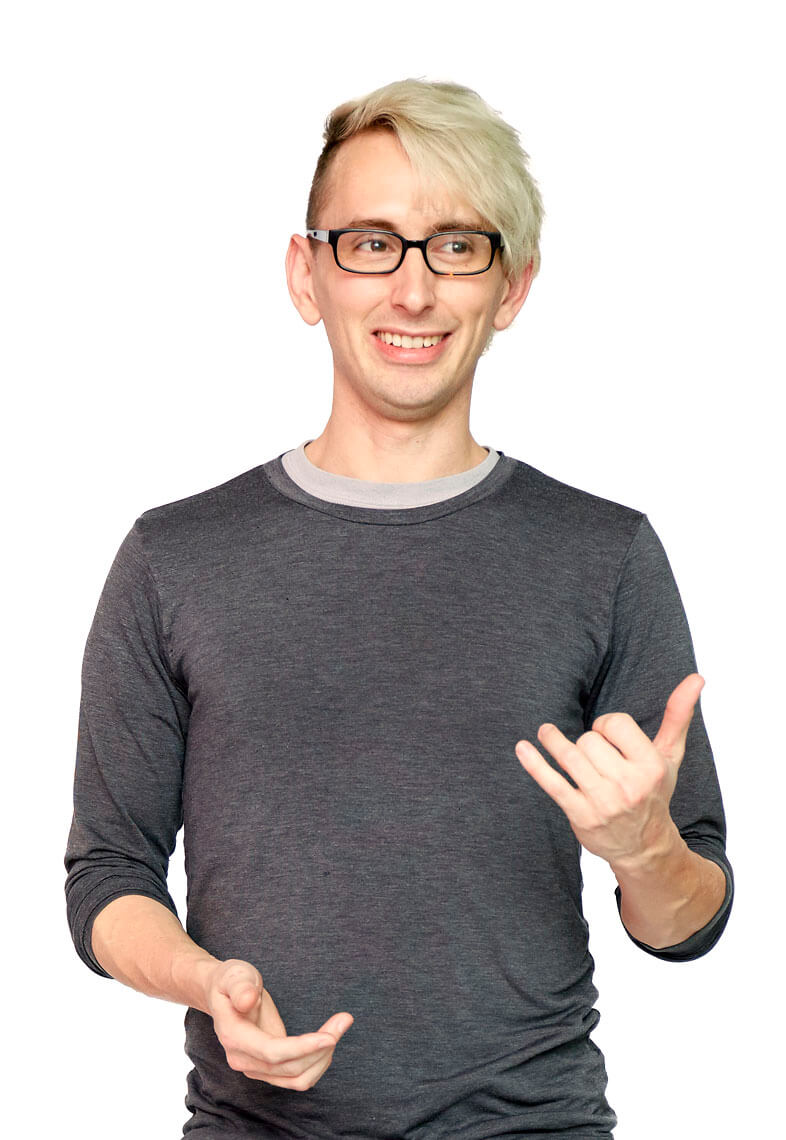
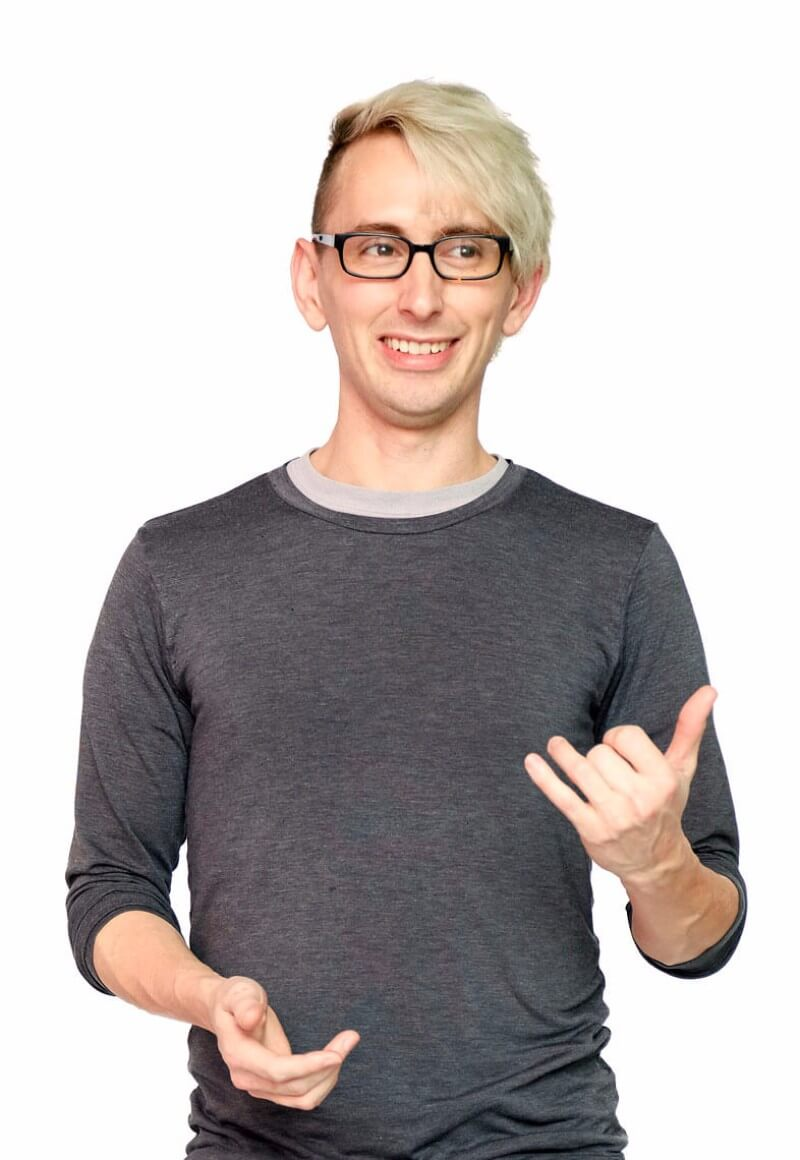
about page image optimization

diff --git a/src/data/teamInfo.js b/src/data/teamInfo.js
@@ -3,7 +3,7 @@ export const teamInfo = [
     id: 'david',
     name: 'David Westen',
     position: 'Principal & Founder',
-    photo: require('assets/img/about/team/david.jpg'),
+    // photo: require('assets/img/about/team/david.jpg'),
     modalImage: require('assets/img/about/team/modal/david.jpg'),
     bioStatement: [
       'David is an expert in internet technology, user experience and digital business strategy.',
@@ -15,7 +15,7 @@ export const teamInfo = [
     id: 'steffan',
     name: 'Steffan Schlarb',
     position: 'Creative Director',
-    photo: require('assets/img/about/team/steffan.jpg'),
+    // photo: require('assets/img/about/team/steffan.jpg'),
     modalImage: require('assets/img/about/team/modal/steffan.jpg'),
     bioStatement: [
       'Steffan is an award-winning creative director with extensive innovation, creative strategy and product design experience.',
@@ -28,7 +28,7 @@ export const teamInfo = [
     id: 'stewart',
     name: 'Stewart Maclennan',
     position: 'Director of Digital Media',
-    photo: require('assets/img/about/team/stewart.jpg'),
+    // photo: require('assets/img/about/team/stewart.jpg'),
     modalImage: require('assets/img/about/team/modal/stewart.jpg'),
     bioStatement: [
       'Stewart Maclennan is a new media guru who combines 12 years of web consulting experience with 9 years as a film writer, director and producer.',
@@ -40,7 +40,7 @@ export const teamInfo = [
     id: 'scott',
     name: 'Scott Lambridis',
     position: 'Lead UX Director',
-    photo: require('assets/img/about/team/scott.jpg'),
+    // photo: require('assets/img/about/team/scott.jpg'),
     modalImage: require('assets/img/about/team/modal/scott.jpg'),
     bioStatement: [
       'Scott Lambridis is the director of UX at Redshift.',
@@ -58,7 +58,7 @@ export const teamInfo = [
     id: 'lucy',
     name: 'Lucy Dotson',
     position: 'Senior UX Designer',
-    photo: require('assets/img/about/team/lucy.jpg'),
+    // photo: require('assets/img/about/team/lucy.jpg'),
     modalImage: require('assets/img/about/team/modal/lucy.jpg'),
     bioStatement: [
       'Lucy Dotson is a senior user experience designer at Redshift.',
@@ -70,7 +70,7 @@ export const teamInfo = [
     id: 'kyle',
     name: 'Kyle Lloyd',
     position: 'Director of Business Development',
-    photo: require('assets/img/about/team/kyle.jpg'),
+    // photo: require('assets/img/about/team/kyle.jpg'),
     modalImage: require('assets/img/about/team/modal/kyle.jpg'),
     bioStatement: [
       'Kyle grew up in Austin, TX and went to school at Texas State University in San Marcos where he earned a BBA in Marketing. He prides himself in building successful sales organizations from the ground up, and prior to Redshift, Kyle worked for pharmaceutical companies, technology accelerators, and other world-renowned digital design firms.',
@@ -81,7 +81,7 @@ export const teamInfo = [
     id: 'shannon',
     name: 'Shannon Chin',
     position: 'Senior Interactive Producer',
-    photo: require('assets/img/about/team/shannon.jpg'),
+    // photo: require('assets/img/about/team/shannon.jpg'),
     modalImage: require('assets/img/about/team/modal/shannon.jpg'),
     bioStatement: [
       'Shannon Chin is an interactive producer at Redshift.',
@@ -93,7 +93,7 @@ export const teamInfo = [
     id: 'ian',
     name: 'Ian Eck',
     position: 'UX Designer',
-    photo: require('assets/img/about/team/ian.jpg'),
+    // photo: require('assets/img/about/team/ian.jpg'),
     modalImage: require('assets/img/about/team/modal/ian.jpg'),
     bioStatement: [
       'Ian is a user experience designer at Redshift.',
@@ -105,7 +105,7 @@ export const teamInfo = [
     id: 'andrew',
     name: 'Andrew Fitzpatrick',
     position: 'Software Engineer',
-    photo: require('assets/img/about/team/andrew.jpg'),
+    // photo: require('assets/img/about/team/andrew.jpg'),
     modalImage: require('assets/img/about/team/modal/andrew.jpg'),
     bioStatement: [
       'Andrew is a self-taught developer with a background in fine arts.',
@@ -125,23 +125,23 @@ export const teamInfo = [
   //     'Jennie received her B.A. in English Literature from Bryn Mawr College.'
   //   ]
   // },
-  {
-    id: 'nick',
-    name: 'Nick Capello',
-    position: 'Studio Manager',
-    photo: require('assets/img/about/team/nick.jpg'),
-    modalImage: require('assets/img/about/team/modal/nick.jpg'),
-    bioStatement: [
-      'Nick Capello is the studio manager at Redshift.',
-      'Born in Kalamazoo, Michigan (a place he left after 4 months) he has moved 13 different times and lived in more than 5 countries with his roots in Buenos Aires, Argentina. He studied Web/UX Design at the Academy of Art, and has worked on a number of freelance jobs ranging from print design to branding. He thrives on keeping Redshift a place that is not only fun and exciting, but also a creative petri dish.',
-      'His interests include getting up at 4 am on weekends to watch English soccer, making music for aliens, and climbing Redwood trails with his puggle, Duckie (aka the Duckman).'
-    ]
-  },
+  // {
+  //   id: 'nick',
+  //   name: 'Nick Capello',
+  //   position: 'Studio Manager',
+  //   // photo: require('assets/img/about/team/nick.jpg'),
+  //   modalImage: require('assets/img/about/team/modal/nick.jpg'),
+  //   bioStatement: [
+  //     'Nick Capello is the studio manager at Redshift.',
+  //     'Born in Kalamazoo, Michigan (a place he left after 4 months) he has moved 13 different times and lived in more than 5 countries with his roots in Buenos Aires, Argentina. He studied Web/UX Design at the Academy of Art, and has worked on a number of freelance jobs ranging from print design to branding. He thrives on keeping Redshift a place that is not only fun and exciting, but also a creative petri dish.',
+  //     'His interests include getting up at 4 am on weekends to watch English soccer, making music for aliens, and climbing Redwood trails with his puggle, Duckie (aka the Duckman).'
+  //   ]
+  // },
   {
     id: 'sasha',
     name: 'Sasha Klein',
     position: 'Senior Software Engineer',
-    photo: require('assets/img/about/team/sasha.jpg'),
+    // photo: require('assets/img/about/team/sasha.jpg'),
     modalImage: require('assets/img/about/team/modal/sasha.jpg'),
     bioStatement: [
       'Sasha Klein is a senior web developer at Redshift.',
@@ -153,7 +153,7 @@ export const teamInfo = [
     id: 'emma',
     name: 'Emma Hazlett',
     position: 'Visual Designer',
-    photo: require('assets/img/about/team/emma.jpg'),
+    // photo: require('assets/img/about/team/emma.jpg'),
     modalImage: require('assets/img/about/team/modal/emma.jpg'),
     bioStatement: [
       'Emma Hazlett is a visual designer at Redshift.',
@@ -177,7 +177,7 @@ export const teamInfo = [
     id: 'sandra',
     name: 'Sandra Wing',
     position: 'UX Researcher',
-    photo: require('assets/img/about/team/sandra.jpg'),
+    // photo: require('assets/img/about/team/sandra.jpg'),
     modalImage: require('assets/img/about/team/modal/sandra.jpg'),
     bioStatement: [
       'Sandra Wing is a User Experience Researcher at Redshift.',
@@ -206,7 +206,7 @@ export const teamInfo = [
     id: 'trevor',
     name: 'Trevor Alexander',
     position: 'Software Engineer',
-    photo: require('assets/img/about/team/trevor.jpg'),
+    // photo: require('assets/img/about/team/trevor.jpg'),
     modalImage: require('assets/img/about/team/modal/trevor.jpg'),
     bioStatement: [
       'Trevor Alexander is a software engineer and data analyst at Redshift. Raised in Arizona, he received his B.S. in Electrical Engineering from the University of Hawai`i at Manoa, with a focus in systems engineering and a minor in Japanese. Following that, he received an M.S. in Electrical Engineering from the same, with a thesis in the area of brain-computer interfaces. Prior to working at Redshift, he worked for a number of technical startups, developing a passion for application development and high-performance web engineering.',
@@ -217,7 +217,7 @@ export const teamInfo = [
     id: 'diana',
     name: 'Diana Cheng',
     position: 'Director of User Research',
-    photo: require('assets/img/about/team/diana.jpg'),
+    // photo: require('assets/img/about/team/diana.jpg'),
     modalImage: require('assets/img/about/team/modal/diana.jpg'),
     bioStatement: [
       'Diana Cheng is the Director of User Research at Redshift.',
@@ -229,7 +229,7 @@ export const teamInfo = [
     id: 'mattk',
     name: 'Matt Kissick',
     position: 'UX Designer',
-    photo: require('assets/img/about/team/mattk.jpg'),
+    // photo: require('assets/img/about/team/mattk.jpg'),
     modalImage: require('assets/img/about/team/modal/mattk.jpg'),
     bioStatement: [
       'Matt Kissick is a user experience designer at Redshift.',
@@ -241,13 +241,13 @@ export const teamInfo = [
     id: 'mattr',
     name: 'Matt Rancatore',
     position: 'Visual Designer',
-    photo: require('assets/img/about/team/mattr.jpg'),
+    // photo: require('assets/img/about/team/mattr.jpg'),
     modalImage: require('assets/img/about/team/modal/mattr.jpg'),
     bioStatement: [
       'Matt Rancatore is a visual designer at Redshift.',
       'He grew up in the Bay Area and received a BS in Graphic Design from The Art Institute of California – San Francisco. Prior to working at Redshift, Matt designed magazines, brands, and websites at companies including Wired Magazine, Sidecar Agency, and IDEO. When Matt isn\'t hunched over his computer pushing pixels, he can be found biking up San Francisco\'s notorious hills, in a park napping, or at a baseball game.'
     ]
-  },
+  }
   // {
   //   id: 'peter',
   //   name: 'Peter Odum',
@@ -260,16 +260,16 @@ export const teamInfo = [
   //     'Peter is a classically trained painter and printmaker who enjoys travel, photography, and roughhousing with his kids, Sam and Irene.'
   //   ]
   // },
-  {
-    id: 'tiffany',
-    name: 'Tiffany La',
-    position: 'User Research',
-    photo: require('assets/img/about/team/tiffany.jpg'),
-    modalImage: require('assets/img/about/team/modal/tiffany.jpg'),
-    bioStatement: [
-      'Tiffany La is a User Researcher at Redshift.',
-      'She is a San Francisco native who has a Bachelor of Arts from UC Davis for Communication and Economics. She has worked in Finance and IT and in between discovered Design Thinking at Carnegie Mellon, which catalyzed her interest in UX. Several conversations later, she obtained her UX Design Immersive certification at General Assembly.',
-      'She loves to work on big projects that really touch the lives of those that need it the most.'
-    ]
-  }
+  // {
+  //   id: 'tiffany',
+  //   name: 'Tiffany La',
+  //   position: 'User Research',
+  //   photo: require('assets/img/about/team/tiffany.jpg'),
+  //   modalImage: require('assets/img/about/team/modal/tiffany.jpg'),
+  //   bioStatement: [
+  //     'Tiffany La is a User Researcher at Redshift.',
+  //     'She is a San Francisco native who has a Bachelor of Arts from UC Davis for Communication and Economics. She has worked in Finance and IT and in between discovered Design Thinking at Carnegie Mellon, which catalyzed her interest in UX. Several conversations later, she obtained her UX Design Immersive certification at General Assembly.',
+  //     'She loves to work on big projects that really touch the lives of those that need it the most.'
+  //   ]
+  // }
 ];

diff --git a/src/routes/About/AboutSlider/index.jsx b/src/routes/About/AboutSlider/index.jsx
@@ -39,7 +39,8 @@ class AboutSlides extends React.Component {
       fade: true,
       pauseOnHover: false,
       arrows: false,
-      draggable: false
+      draggable: false,
+      lazyLoad: true
     };
 
     return (
@@ -55,6 +56,7 @@ class AboutSlides extends React.Component {
               slideShow.map((s, i) => (
                 <div key={ i }>
                   <picture>
+                    <source srcSet={ require(`assets/img/about/slides/desktop/${s.imagePath}.jpg`) } media="(max-width: 1400px)" />
                     <source srcSet={ require(`assets/img/about/slides/tablet/${s.imagePath}.jpg`) } media="(max-width: 1040px)" />
                     <source srcSet={ require(`assets/img/about/slides/mobile/${s.imagePath}.jpg`) } media="(max-width: 767px)" />
                     <img src={ require(`assets/img/about/slides/default/${s.imagePath}.jpg`) } alt="Redshift About" />

diff --git a/src/components/PinkHover/index.jsx b/src/components/PinkHover/index.jsx
@@ -51,12 +51,21 @@ class PinkHover extends React.Component {
         <div ref="hover" className="pink-hover">
           <div className="pink-info">{ children }</div>
         </div>
-        <img
+        <picture
+          className="pinkhover__img"
+          ref="img"
+          alt={ alt }
+        >
+          <source srcSet={ require(`assets/img/about/team/desktop/${imageSrc}.jpg`) } media="(max-width: 1400px)" />
+          <source srcSet={ require(`assets/img/about/team/tablet/${imageSrc}.jpg`) } media="(max-width: 1040px)" />
+          <img src={ require(`assets/img/about/team/default/${imageSrc}.jpg`) } alt="Redshift About" />
+        </picture>
+        {/* <img
           className="pinkhover__img"
           ref="img"
           src={ imageSrc }
           alt={ alt }
-        />
+        /> */}
       </div>
     );
   }

diff --git a/src/routes/About/AboutTeam/index.jsx b/src/routes/About/AboutTeam/index.jsx
@@ -16,7 +16,7 @@ const AboutTeam = props => {
         <Link to={ `/about/${team.id}` } key={ index }>
           <PinkHover
             classes="quarter-width team-member"
-            imageSrc={ team.photo }
+            imageSrc={ team.id }
             alt={ team.name }
           >
             <span className="member__name typ--bold">{ team.name }</span>
